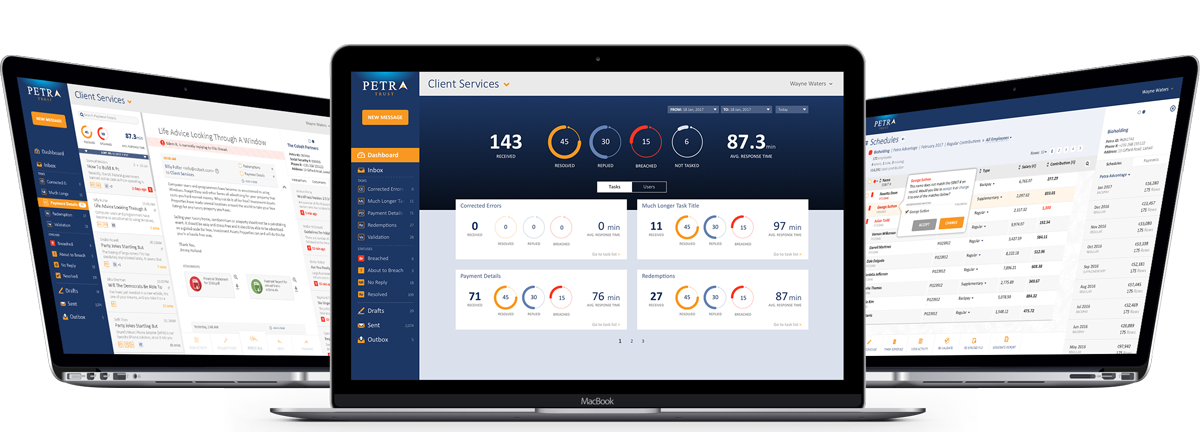
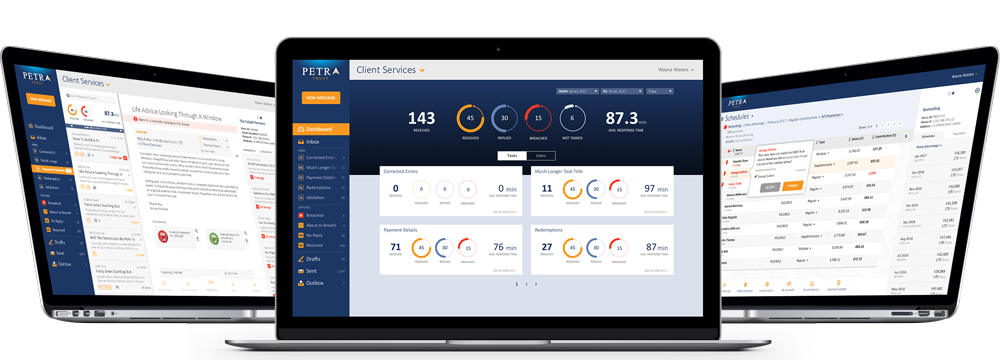
- removed old image files - updated petra case study - updated styles for full-width images

diff --git a/projects/petra.html b/projects/petra.html
@@ -15,33 +15,49 @@ masthead-bg: petra-masthead-bg.png
 ---
 
 <div class="section-intro new-section">
-  <h2>Workflow Management</h2>
+  <h2>Data Flows</h2>
 </div>
-<div class="main-image" style="background-image: url({{ site.imagepath }}petra-wfm-laptop.jpg); padding-top: 57%">
-  <a data-caption="Petra Trust Workflow Management System" href="{{ site.imagepath }}petra-wfm-laptop.jpg" data-fancybox="lightbox-{{ page.shortcode }}">
+<div class="main-image" style="background-image: url({{ site.imagepath }}ta-modules-2.png); padding-top: 64.2%">
+  <a data-caption="Petra Trust Workflow Management System" href="{{ site.imagepath }}ta-modules-2.png" data-fancybox="lightbox-{{ page.shortcode }}">
   </a>
 </div>
 
-<div class="ui-image" style="background-image: url({{ site.imagepath }}petra-wfm-mockup.png)">
-  <a data-caption="Petra Trust Workflow Management System" href="{{ site.imagepath }}petra-wfm-mockup.png" data-fancybox="lightbox-{{ page.shortcode }}">
+<div class="section-intro new-section">
+  <h2>Style guide</h2>
+</div>
+<div class="full-width-image">
+  <a data-caption="Petra Trust Workflow Management System" href="{{ site.imagepath }}petra-styles.png" data-fancybox="lightbox-{{ page.shortcode }}">
+    <img src="{{ site.imagepath }}petra-styles.png" alt="Petra Trust Workflow Management System">
+  </a>
+</div>
+
+<div class="section-intro new-section">
+  <h2>Workflow Management app</h2>
+</div>
+<div class="main-image" style="background-image: url({{ site.imagepath }}petra-wfm-imac.jpg); padding-top: 82%">
+  <a data-caption="Petra Trust Workflow Management System" href="{{ site.imagepath }}petra-wfm-imac.jpg" data-fancybox="lightbox-{{ page.shortcode }}">
+  </a>
+</div>
+
+<div class="ui-image" style="background-image: url({{ site.imagepath }}petra-wfm17.jpg); padding-top: 65%">
+  <a data-caption="Petra Trust Workflow Management System" href="{{ site.imagepath }}petra-wfm17.jpg" data-fancybox="lightbox-{{ page.shortcode }}">
+  </a>
+</div>
+
+<div class="ui-image" style="background-image: url({{ site.imagepath }}petra-wfm18.jpg)">
+  <a data-caption="Petra Trust Workflow Management System" href="{{ site.imagepath }}petra-wfm18.jpg" data-fancybox="lightbox-{{ page.shortcode }}">
   </a>
 </div>
 
 <div class="section-intro new-section" style="margin-top: 150px;">
-  <h2>Transfer Agency</h2>
+  <h2>Transfer Agency app</h2>
 </div>
-<div class="main-image" style="background-image: url({{ site.imagepath }}petra-ta-laptop.jpg); padding-top: 57%">
-  <a data-caption="Petra Trust Transfer Agency app" href="{{ site.imagepath }}petra-ta-laptop.jpg" data-fancybox="lightbox-{{ page.shortcode }}">
+<div class="main-image" style="background-image: url({{ site.imagepath }}petra-ta-imac.jpg); padding-top: 82%">
+  <a data-caption="Petra Trust Transfer Agency app" href="{{ site.imagepath }}petra-ta-imac.jpg" data-fancybox="lightbox-{{ page.shortcode }}">
   </a>
 </div>
 
-<div class="ui-image" style="background-image: url({{ site.imagepath }}petra-ta.png)">
-  <a data-caption="Petra Trust Transfer Agency app" href="{{ site.imagepath }}petra-ta.png" data-fancybox="lightbox-{{ page.shortcode }}">
-  </a>
-</div>
-
-
-<div class="ui-image" style="background-image: url({{ site.imagepath }}petra-styles.png)">
-  <a data-caption="Petra Trust Workflow Management System" href="{{ site.imagepath }}petra-styles.png" data-fancybox="lightbox-{{ page.shortcode }}">
+<div class="ui-image" style="background-image: url({{ site.imagepath }}petra-ta8.jpg); padding-top: 65%">
+  <a data-caption="Petra Trust Workflow Management System" href="{{ site.imagepath }}petra-ta8.jpg" data-fancybox="lightbox-{{ page.shortcode }}">
   </a>
 </div>

diff --git a/_sass/_layout.scss b/_sass/_layout.scss
@@ -89,6 +89,10 @@
 					margin-bottom: 0;
 				}
 			}
+
+			.social-links {
+				max-width: 300px;
+			}
 		}
 	}
 }
@@ -1092,16 +1096,9 @@
 	}
 
 	.full-width-image {
-		@extend %image-default;
-		height: 720px;
-		width: 100vw;
-		left: calc( (100% - 100vw) * 0.5 );
-		@include media-query($on-1100) {
-			width: 100%;
-			height: 0;
-			padding-top: 50%;
-			left: auto;
-		}
+		margin-left: calc(-50vw + 50%);
+  	margin-right: calc(-50vw + 50%);
+		background-size: cover;
 	}
 
 	.main-image {

diff --git a/projects/fido.html b/projects/fido.html
@@ -55,8 +55,9 @@ masthead-bg: fido-masthead-bg.png
   <h2>User Flows &amp; Wireframes</h2>
 </div>
 
-<div class="ui-image fido-flow" style="background-image: url({{ site.imagepath }}fido-flow.png)">
+<div class="full-width-image fido-flow">
   <a data-caption="Returning user flow and wireframes" href="{{ site.imagepath }}fido-flow.png" data-fancybox="lightbox-{{ page.shortcode }}">
+    <img src="{{ site.imagepath }}fido-flow.png" alt="Returning user flow and wireframes">
   </a>
 </div>
 

diff --git a/_layouts/project.html b/_layouts/project.html
@@ -56,6 +56,7 @@
      $("[data-fancybox]").fancybox({
        infobar : false,
        protect : true,
+       clickContent : false,
        buttons : [
          'thumbs',
          'close'

diff --git a/projects/chocolonely.html b/projects/chocolonely.html
@@ -1,7 +1,7 @@
 ---
 layout: project
 shortcode: chocofo
-order: 4
+order: 7
 projectname: Chocolonely Foundation &ldquo;Designathon&rdquo;
 card: snippet
 client: Chocolonely Foundation

diff --git a/_sass/_base.scss b/_sass/_base.scss
@@ -347,6 +347,8 @@ blockquote {
     cursor: zoom-in;
     top: 0;
   	left: 0;
+    right: 0;
+    bottom: 0;
   	width: 100%;
   	height: 100%;
   }

diff --git a/projects/star.html b/projects/star.html
@@ -1,7 +1,7 @@
 ---
 layout: project
 shortcode: staroil
-order: 7
+order: 8
 projectname: Star Oil customer research
 card: snippet
 client: Star Oil

diff --git a/projects/chnotg.html b/projects/chnotg.html
@@ -1,7 +1,7 @@
 ---
 layout: project
 shortcode: chnotg
-order: 8
+order: 4
 projectname: CHN On The Go
 card: snippet
 client: Grameen Foundation
